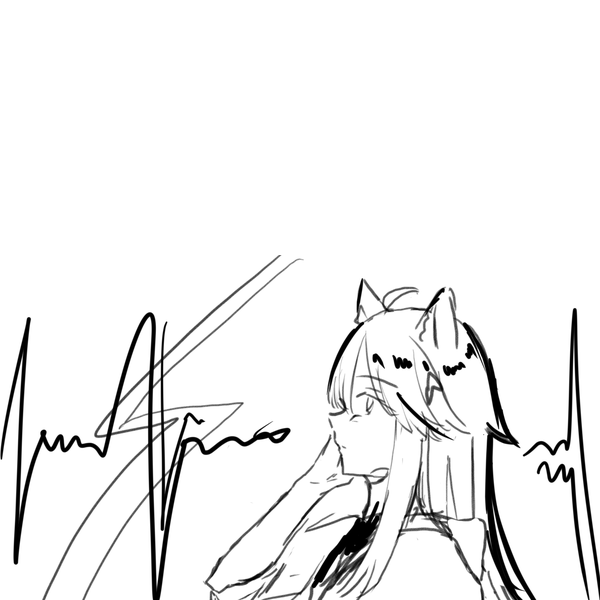
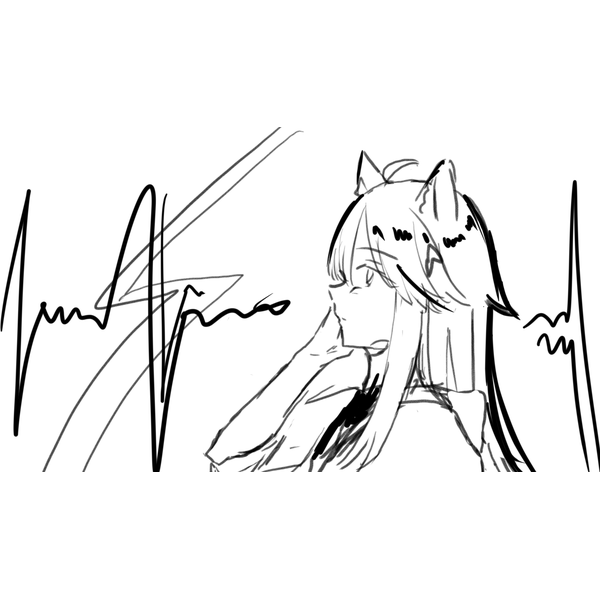
feat(插画): 统一随机选图并修复书架刷新布局

diff --git a/components/common/WorkDetail.vue b/components/common/WorkDetail.vue
@@ -46,6 +46,14 @@
 								</template>
 							</Book3D>
 						</div>
+						<img
+							class="notebook-doodle notebook-doodle--cover"
+							:src="notebookArtwork[0]"
+							alt=""
+							aria-hidden="true"
+							width="600"
+							height="600"
+						/>
 						<div class="notebook-page-footer" aria-hidden="true">
 							<img src="/moelian-logo.png" class="notebook-logo" alt="" />
 							<span class="notebook-page-number">01</span>
@@ -247,6 +255,14 @@
 								</div>
 								<template v-else>开始阅读</template>
 							</v-btn>
+							<img
+								class="notebook-doodle notebook-doodle--info"
+								:src="notebookArtwork[1]"
+								alt=""
+								aria-hidden="true"
+								width="600"
+								height="600"
+							/>
 						</div>
 					</div>
 				</section>
@@ -337,6 +353,15 @@
 								</div>
 								<div class="recommendation-info">
 									<h3 class="recommendation-title">{{ card.title }}</h3>
+									<img
+										class="recommendation-doodle"
+										:src="pickArtwork(`${props.contentType}/${workId}:recommendation:${card.id}`)"
+										alt=""
+										aria-hidden="true"
+										width="600"
+										height="600"
+									/>
+
 									<span class="recommendation-author-name">{{
 										card.author || '未知作者'
 									}}</span>
@@ -421,6 +446,10 @@ const props = defineProps({
 const router = useRouter();
 const route = useRoute();
 const workId = computed(() => Number(route.params.id));
+const pickArtwork = useRandomArtwork();
+const notebookArtwork = computed(() =>
+	['cover', 'info'].map((page) => pickArtwork(`${props.contentType}/${workId.value}:${page}`)),
+);
 const notebookElement = ref<HTMLElement | null>(null);
 const notebookOpened = ref(false);
 
@@ -2096,5 +2125,93 @@ useSeoMeta({
 .detail-chapter-grid .chapter-btn:focus-visible { outline: 2px solid #bd8a79; outline-offset: -3px; }
 @media (max-width: 960px) {
 	.detail-chapter-grid { grid-template-columns: repeat(2, minmax(0, 1fr)); }
+}
+</style>
+
+<style scoped>
+/* 页角涂鸦保留原画颜色；不参与点击，阅读操作仍由按钮承接。 */
+.notebook-doodle {
+	display: block;
+	object-fit: contain;
+	pointer-events: none;
+	user-select: none;
+}
+.detail-main-card .detail-cover-wrapper {
+	padding-bottom: 112px;
+}
+.notebook-doodle--cover {
+	position: absolute;
+	right: 32px;
+	bottom: 36px;
+	width: 80px;
+	height: 80px;
+}
+.detail-action-button {
+	gap: 16px;
+	flex-wrap: wrap;
+	justify-content: space-between;
+}
+.notebook-doodle--info {
+	margin-left: auto;
+	width: clamp(64px, 8vw, 100px);
+	height: auto;
+	aspect-ratio: 1;
+	flex-shrink: 0;
+}
+.detail-main-container--mobile .detail-main-card .detail-cover-wrapper {
+	padding-bottom: 104px;
+}
+.detail-main-container--mobile .notebook-doodle--cover {
+	right: 24px;
+	bottom: 30px;
+	width: 64px;
+	height: 64px;
+}
+.detail-main-container--mobile .notebook-doodle--info {
+	display: none;
+}
+</style>
+
+<style scoped>
+.recommendation-paper .recommendation-content {
+	height: 180px;
+}
+.recommendation-paper .recommendation-info {
+	height: 180px;
+	grid-template-columns: minmax(0, 1fr) 80px;
+	grid-template-rows: 45px 18px 52px 41px;
+	column-gap: 8px;
+}
+.recommendation-title {
+	grid-column: 1 / -1;
+	grid-row: 1;
+}
+.recommendation-author-name {
+	grid-column: 1;
+	grid-row: 2;
+	overflow: hidden;
+	text-overflow: ellipsis;
+	white-space: nowrap;
+}
+.recommendation-paper .recommendation-meta {
+	grid-column: 1;
+	grid-row: 3;
+	align-self: start;
+	flex-wrap: wrap;
+	gap: 4px 8px;
+	overflow: visible;
+}
+.recommendation-description {
+	grid-column: 1 / -1;
+	grid-row: 4;
+}
+.recommendation-doodle {
+	grid-column: 2;
+	grid-row: 2 / 4;
+	align-self: center;
+	width: 80px;
+	height: 80px;
+	object-fit: contain;
+	pointer-events: none;
 }
 </style>

diff --git a/tests/unit/client/bookshelfLayout.test.ts b/tests/unit/client/bookshelfLayout.test.ts
@@ -1,0 +1,47 @@
+// @vitest-environment happy-dom
+import { readFileSync } from 'node:fs';
+import { resolve } from 'node:path';
+import { afterEach, describe, expect, it } from 'vitest';
+import { compileStyle, parse } from 'vue/compiler-sfc';
+
+function componentStyles(file: string, id: string) {
+	const source = readFileSync(resolve('components/common', file), 'utf8');
+	return parse(source).descriptor.styles.map((style) =>
+		compileStyle({ source: style.content, filename: file, id, scoped: true }).code,
+	).join('\n');
+}
+
+const shelfStyles = componentStyles('BookshelfDisplay.vue', 'data-v-shelf');
+const bookmarkStyles = componentStyles('ShelfBookmark.vue', 'data-v-bookmark');
+
+afterEach(() => {
+	document.head.innerHTML = '';
+	document.body.innerHTML = '';
+});
+
+describe('书架书签定位', () => {
+	it.each([
+		['书签样式后加载', [shelfStyles, bookmarkStyles]],
+		['书架样式后加载', [bookmarkStyles, shelfStyles]],
+	])('%s时仍脱离排版流', (_, styles) => {
+		for (const css of styles) {
+			const style = document.createElement('style');
+			style.textContent = css;
+			document.head.append(style);
+		}
+		document.body.innerHTML = `<div class="shelf-display" data-v-shelf>
+			<div class="bookshelf" data-v-shelf>
+				<div class="cards-grid" data-v-shelf>
+					<div class="shelf-books-grid" data-v-shelf>
+						<div class="book-col" data-v-shelf>
+							<a class="bookmark shelf-bookmark" data-v-shelf data-v-bookmark></a>
+						</div>
+					</div>
+				</div>
+			</div>
+		</div>`;
+		const bookmark = document.querySelector('.shelf-bookmark');
+		if (!bookmark) throw new Error('缺少书签测试元素');
+		expect(getComputedStyle(bookmark).position).toBe('absolute');
+	});
+});

diff --git a/tests/unit/client/artwork.test.ts b/tests/unit/client/artwork.test.ts
@@ -1,0 +1,37 @@
+import { afterEach, describe, expect, it, vi } from 'vitest';
+import { createRandomArtworkPicker, getRandomArtwork } from '~/utils/artwork';
+
+afterEach(() => vi.restoreAllMocks());
+
+describe('随机手绘插图', () => {
+	it('随机区间覆盖全部十三张素材', () => {
+		const random = vi.spyOn(Math, 'random');
+		for (let index = 0; index < 13; index++) {
+			random.mockReturnValue((index + 0.5) / 13);
+			expect(getRandomArtwork()).toBe(`/bookmarks/art-${String(index + 1).padStart(2, '0')}.png`);
+		}
+	});
+
+	it('同一位置重渲染保持原图，新位置重新随机', () => {
+		vi.spyOn(Math, 'random').mockReturnValueOnce(0).mockReturnValueOnce(0.99);
+		const pick = createRandomArtworkPicker({});
+		expect(pick('cover')).toBe('/bookmarks/art-01.png');
+		expect(pick('cover')).toBe('/bookmarks/art-01.png');
+		expect(pick('recommendation:7')).toBe('/bookmarks/art-13.png');
+	});
+
+	it('客户端复用序列化的服务端选图，不重新抽取', () => {
+		const random = vi.spyOn(Math, 'random').mockReturnValue(0);
+		const state: Record<string, string> = {};
+		const serverImage = createRandomArtworkPicker(state)('cover');
+		const restored: Record<string, string> = JSON.parse(JSON.stringify(state));
+		random.mockReturnValue(0.99);
+		expect(createRandomArtworkPicker(restored)('cover')).toBe(serverImage);
+	});
+
+	it('不同请求独立抽图，不共享状态', () => {
+		vi.spyOn(Math, 'random').mockReturnValueOnce(0).mockReturnValueOnce(0.99);
+		expect(createRandomArtworkPicker({})('cover')).toBe('/bookmarks/art-01.png');
+		expect(createRandomArtworkPicker({})('cover')).toBe('/bookmarks/art-13.png');
+	});
+});

diff --git a/components/common/ShelfBookmark.vue b/components/common/ShelfBookmark.vue
@@ -4,13 +4,8 @@ const props = defineProps<{
 	author?: string | null;
 	to: string;
 }>();
-// 使用作品链接稳定分配款式，保证 SSR、刷新和列表重排时保持一致。
-const artworkSrc = computed(() => {
-	let hash = 0;
-	for (const character of props.to)
-		hash = (hash * 31 + (character.codePointAt(0) ?? 0)) >>> 0;
-	return `/bookmarks/art-${String((hash % 13) + 1).padStart(2, '0')}.png`;
-});
+const pickArtwork = useRandomArtwork();
+const artworkSrc = computed(() => pickArtwork(props.to));
 const characters = computed(() => Array.from(props.title));
 const surface = useTemplateRef<HTMLElement>('surface');
 let motion: Animation | undefined;

diff --git a/utils/artwork.ts b/utils/artwork.ts
@@ -1,0 +1,13 @@
+/** 从现有透明手绘素材中随机选取一张。 */
+export function getRandomArtwork(): string {
+	const number = Math.floor(Math.random() * 13) + 1;
+	return `/bookmarks/art-${String(number).padStart(2, '0')}.png`;
+}
+
+/** 选图结果写入可序列化状态，同一位置在水合和重渲染时复用。 */
+export function createRandomArtworkPicker(state: Record<string, string>) {
+	return (slot: string): string => {
+		if (!Object.hasOwn(state, slot)) state[slot] = getRandomArtwork();
+		return state[slot];
+	};
+}

diff --git a/composables/useRandomArtwork.ts b/composables/useRandomArtwork.ts
@@ -1,0 +1,10 @@
+import { createRandomArtworkPicker } from '~/utils/artwork';
+
+export function useRandomArtwork() {
+	// useId 在 SSR 与水合时一致；useState 随 Nuxt payload 传递且隔离请求。
+	const key = `random-artwork:${useId()}`;
+	const state = useState<Record<string, string>>(key, () => ({}));
+	// 离开组件后释放选图，下次进入重新随机。
+	onBeforeUnmount(() => clearNuxtState(key));
+	return createRandomArtworkPicker(state.value);
+}

diff --git a/components/common/BookshelfDisplay.vue b/components/common/BookshelfDisplay.vue
@@ -745,7 +745,8 @@ const bookUrl = (work: ShelfWork) =>
 }
 .shelf-display:not(.shelf-page--mobile) .book-col { position: relative; }
 .shelf-display:not(.shelf-page--mobile) .shelf-labels { display: none; }
-.shelf-bookmark {
+/* 高于书签根样式的优先级，避免 SSR 与客户端样式加载顺序改变定位。 */
+.shelf-display .shelf-bookmark {
 	position: absolute;
 	z-index: 3;
 	top: -60px;
